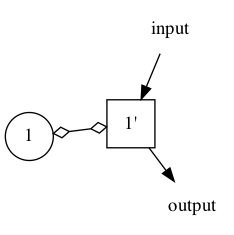
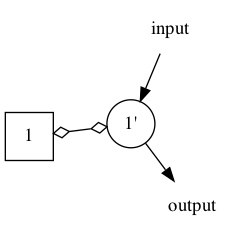
Shape should be on main mode, not auxiliary mode

Changed region(s): [[0.3889, 0.3574, 0.688, 0.6553], [0.0, 0.4468, 0.2393, 0.7149], [0.688, 0.7149, 0.7479, 0.7745]]

diff --git a/simba/graph.py b/simba/graph.py
@@ -129,8 +129,8 @@ class Nodes:
 
             # determine self connection shapes
             if len(node.self_connections) != 0:
-                g.add_node(f"{i + 1}'", shape=node_shape)
-                g.add_node(str(i + 1), shape='circle')  # reset main node shape
+                g.add_node(f"{i + 1}'", shape='circle')
+                # g.add_node(str(i + 1), shape=node_shape)  # reset main node shape
 
                 arrow_head = _arrow_head_from_connections_set(node.self_connections)
 
